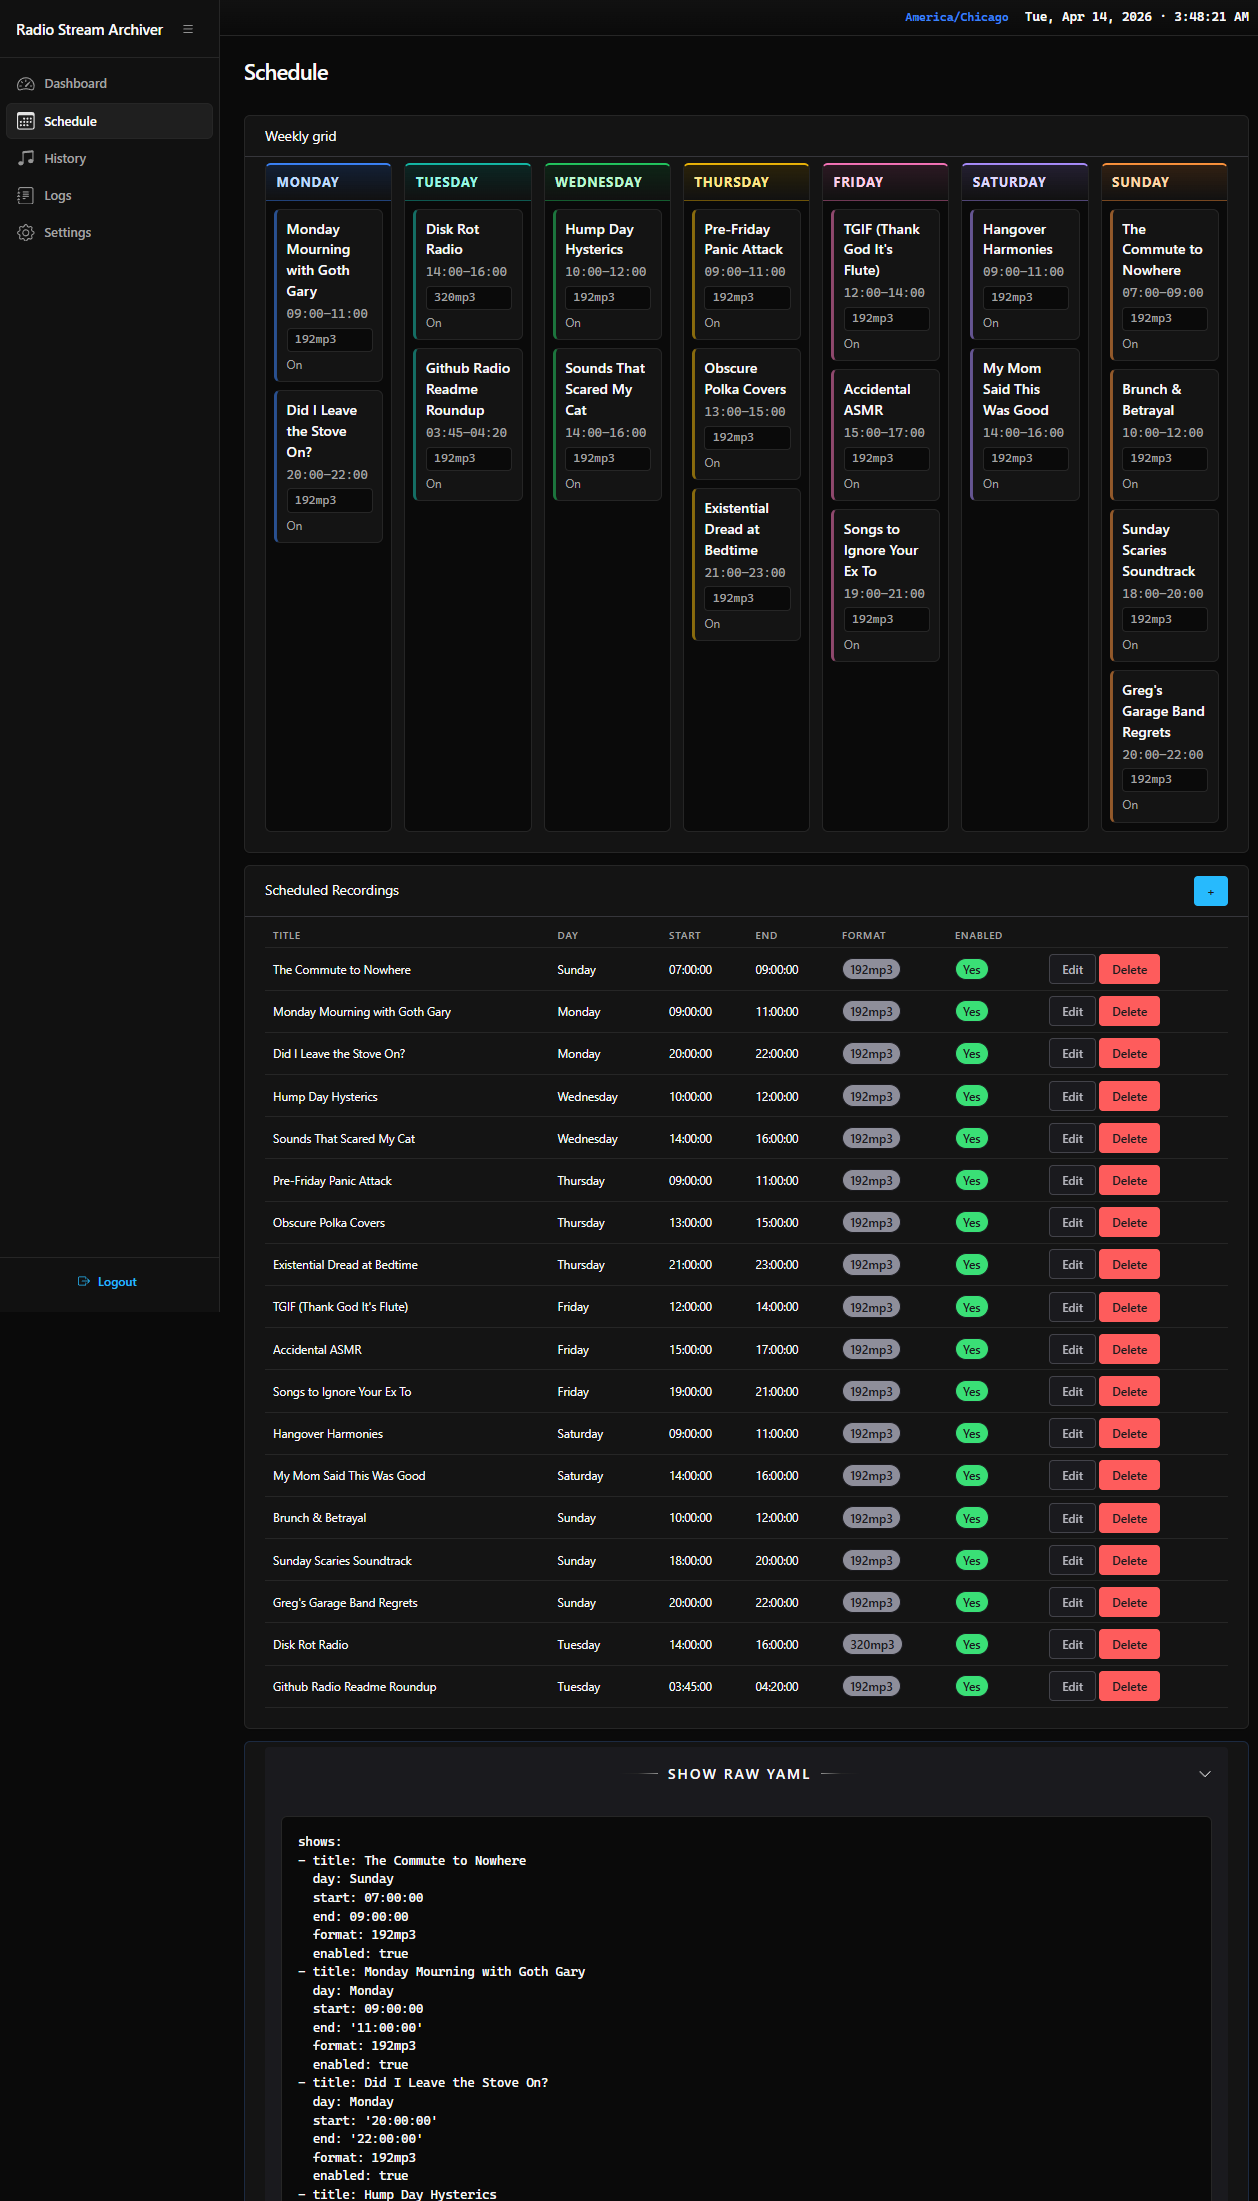
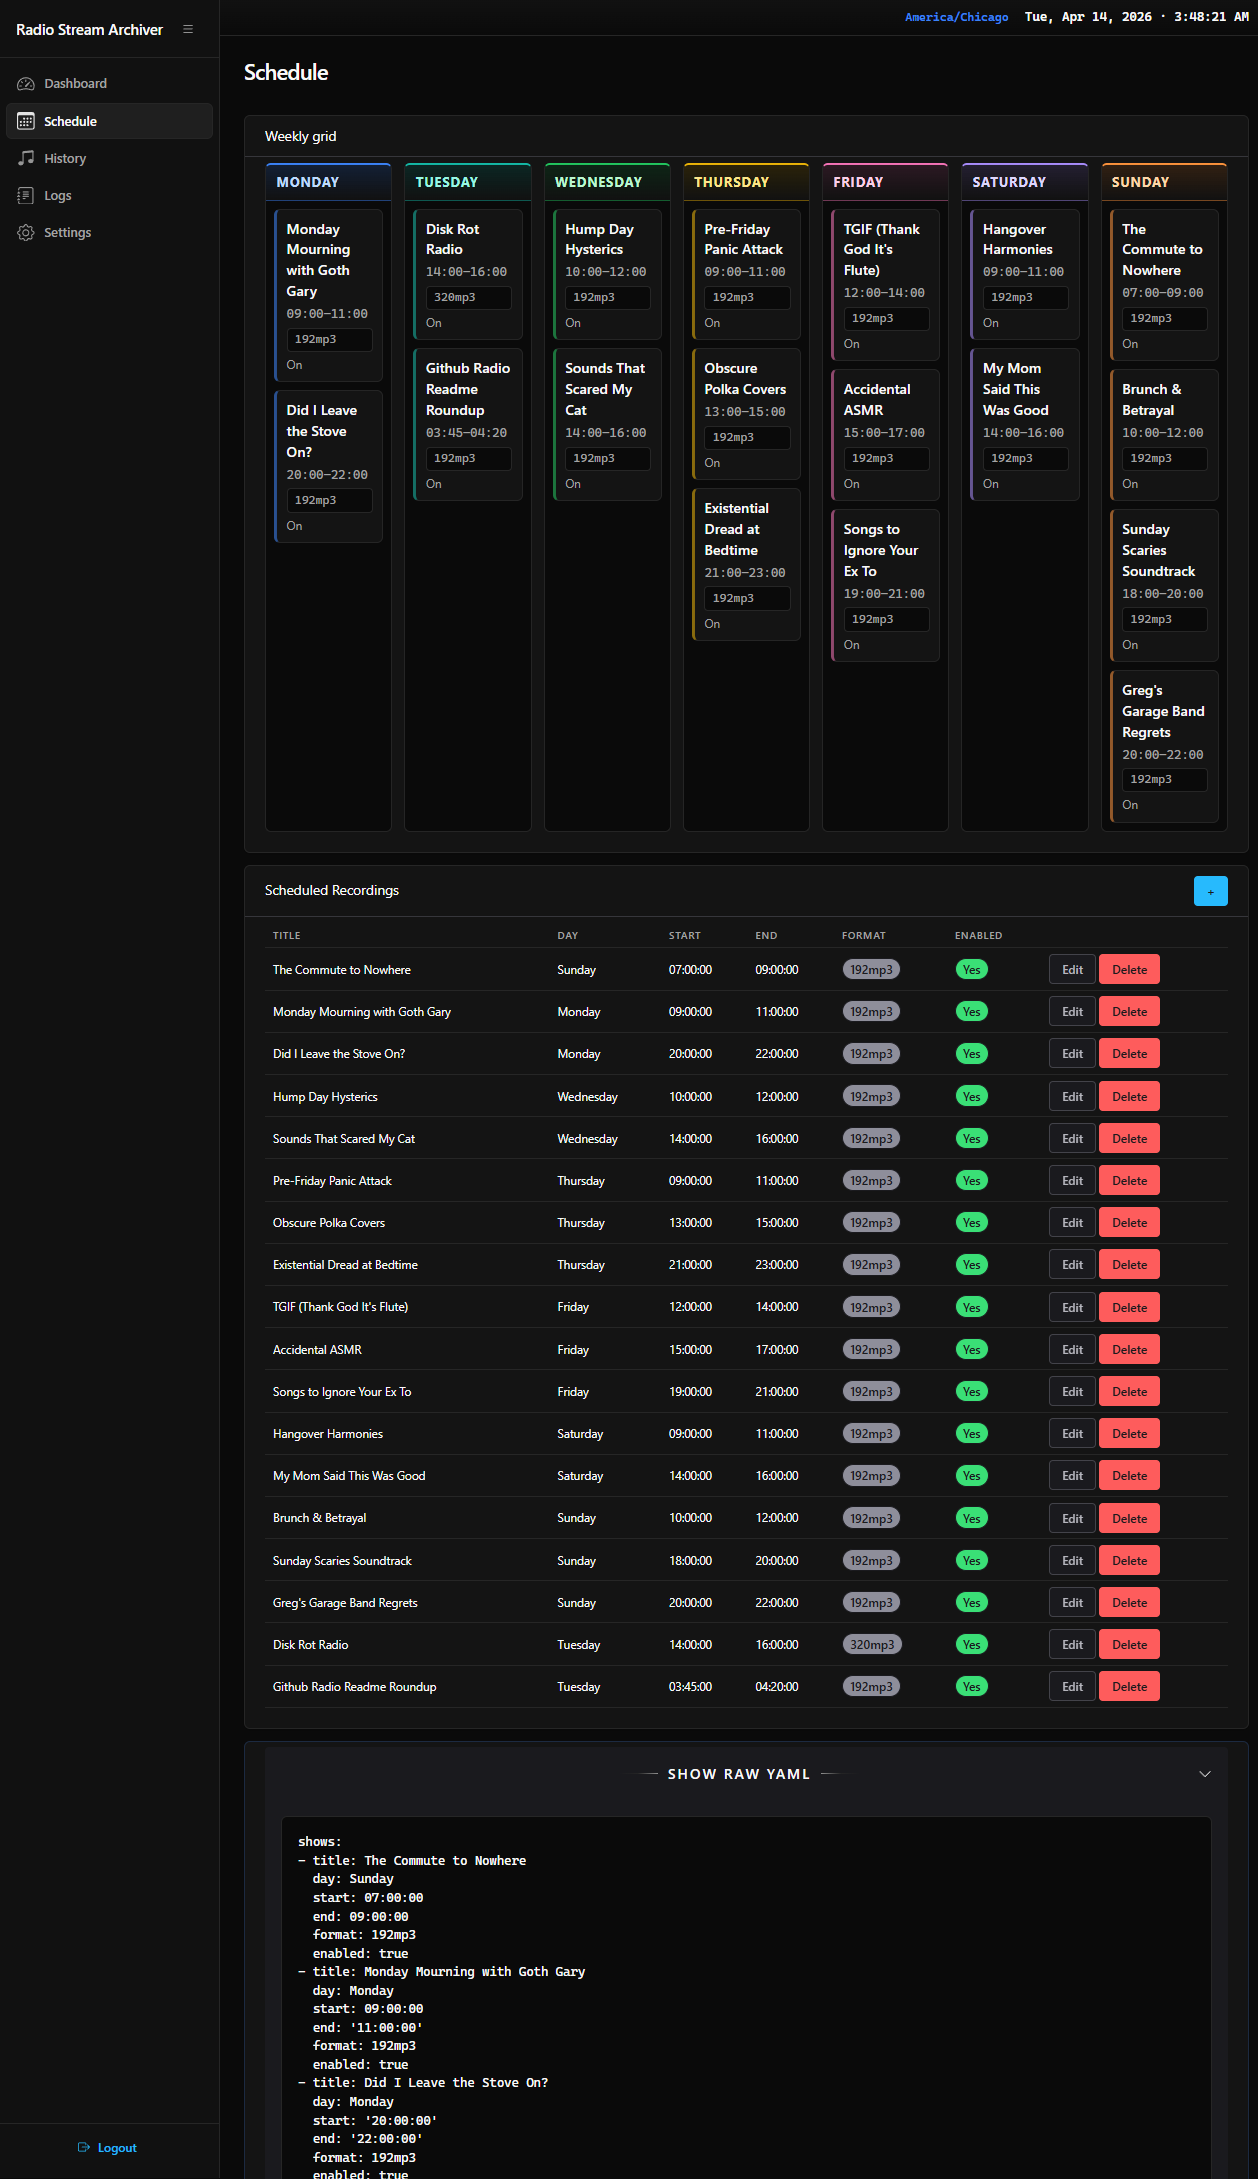
tidy up readme screenshots

diff --git a/README.md b/README.md
@@ -7,17 +7,13 @@ It’s designed to be simple to operate:
 - **One YAML file** (`schedule.yaml`) controls the schedule and settings
 - An optional **web UI** lets you manage the schedule and browse recordings (runs as a separate process from listener/recorder)
 
-# Optional Web UI
-
-- **History**: scan `output_root` for recordings; play/download files
-- **Logs**: tail of `radioarchive.log`
-- **Settings**: edit global settings and run “Measure stream preroll”
-
-
-- **Dashboard**: live status for recording module
+# Optional Web UI Screenshots
+### Dashboard
+live status for recording module
 ![Dashboard](docs/screenshots/Dashboard.png)
 
-- **Schedule**: add/edit/delete shows with a UI
+### Schedule
+add/edit/delete segements to record with a UI
 ![Schedule](docs/screenshots/Schedule.png)
 
 ## Requirements